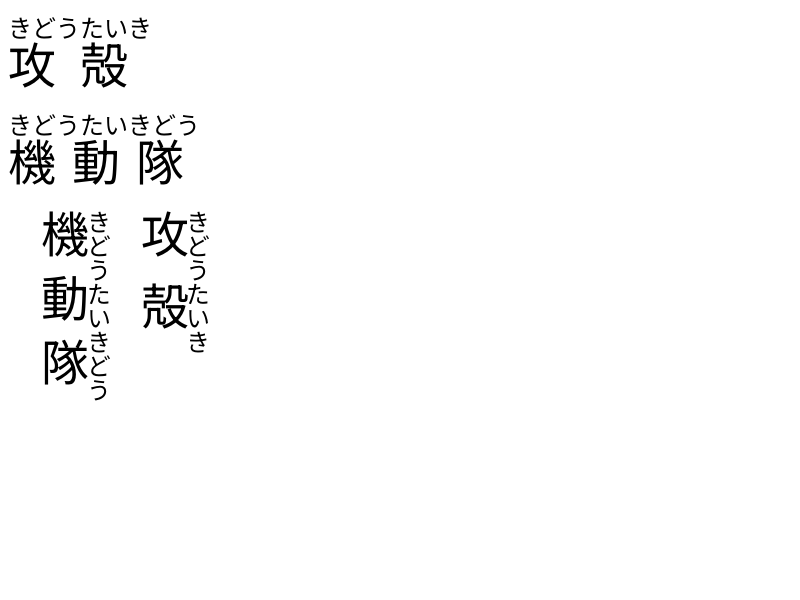
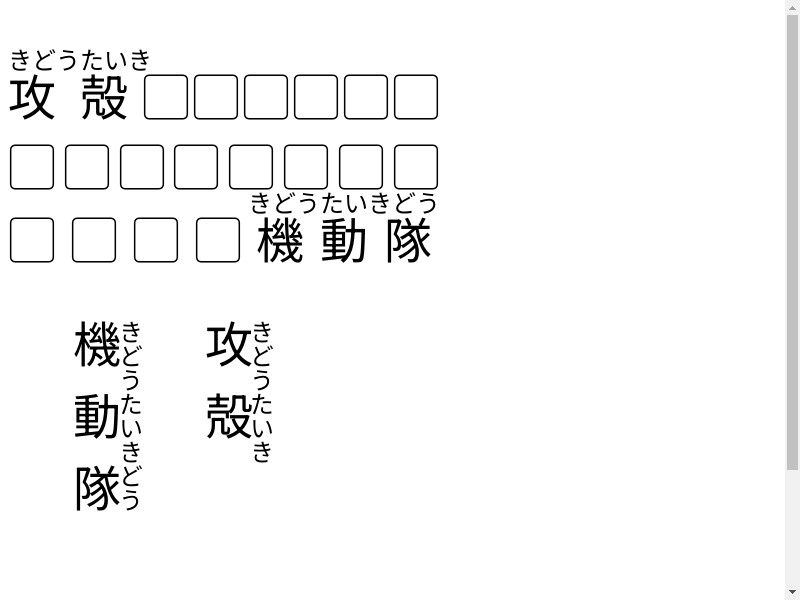
RubyLB: Improve justification for lines including base-shorter rubies
We ignored such rubies in justification, and we had no space between
such a ruby and the following character.

Assume such a ruby as an OBJECT REPLACEMENT CHARACTER.  It's compatible
with the current inline-block rubies.

Bug: 324111880
Auto-Submit: Kent Tamura <tkent@chromium.org>
Commit-Queue: Koji Ishii <kojii@chromium.org>
Cr-Commit-Position: refs/heads/main@{#1301168}
NOKEYCHECK=True
GitOrigin-RevId: 33836c24d6c005c860a8255579bc1b670f2973b8

Changed region(s): [[0.0, 0.03, 0.5625, 0.87], [0.9688, 0.0, 1.0, 0.78]]

diff --git a/blink/web_tests/fast/ruby/base-shorter-than-text.html b/blink/web_tests/fast/ruby/base-shorter-than-text.html
@@ -2,19 +2,17 @@
 <html lang="ja">
 <meta charset="utf-8">
 <style>
-    ruby { font-size: 48px; font-family: HiraMinProN-W3;}
+ruby { font-family: HiraMinProN-W3;}
+p {
+  font-size: 48px;
+  inline-size: 8.99em;
+  word-break: break-all;
+  text-align: justify;
+  text-align-last: justify;
+}
 </style>
 <p>
-    <ruby>
-        攻殻
-        <rt>きどうたいき</rt>
-    </ruby>
-</p>
-<p>
-    <ruby>
-        機動隊
-        <rt>きどうたいきどう</rt>
-    </ruby>
+<ruby>攻殻<rt>きどうたいき</rt></ruby>▢▢▢▢▢▢▢▢▢▢▢▢▢▢▢▢▢▢<ruby>機動隊<rt>きどうたいきどう</rt></ruby>
 </p>
 <div style="-webkit-writing-mode: vertical-rl; height: 50%;">
 <p>
@@ -23,11 +21,6 @@
         <rt>きどうたいき</rt>
     </ruby>
 </p>
-<p>
-    <ruby>
-        機動隊
-        <rt>きどうたいきどう</rt>
-    </ruby>
-</p>
+<p><ruby>機動隊<rt>きどうたいきどう</rt></ruby></p>
 </div>
 </html>

diff --git a/blink/renderer/core/layout/inline/justification_utils.cc b/blink/renderer/core/layout/inline/justification_utils.cc
@@ -53,8 +53,8 @@ String BuildJustificationText(const String& text_content,
                                               item_result.item->Length()));
         }
         // Add the ruby-base results only if the ruby-base is wider than its
-        // ruby-text. Shorter ruby-bases don't participate in the justification
-        // for the whole line.
+        // ruby-text. Shorter ruby-bases produces OBJECT REPLACEMENT CHARACTER,
+        // and it is treated as a single Latin character.
         if (item_result.inline_size ==
             item_result.ruby_column->base_line.Width()) {
           const LineInfo& base_line = item_result.ruby_column->base_line;
@@ -65,6 +65,8 @@ String BuildJustificationText(const String& text_content,
                 base_line.EndOffsetForJustify(),
                 base_line.MayHaveTextCombineOrRubyItem()));
           }
+        } else {
+          line_text_builder.Append(kObjectReplacementCharacter);
         }
         continue;
       }
@@ -163,6 +165,20 @@ void JustifyResults(const String& text_content,
                            base_line.ComputeWidth());
         item_result.inline_size =
             std::max(item_result.inline_size, base_line.Width());
+      } else {
+        [[maybe_unused]] float spacing_before = 0;
+        unsigned offset = item_result.StartOffset() - line_text_start_offset;
+        if (!item_result.ruby_column->is_continuation) {
+          // Skip k*IsolateCharacter.
+          offset += item_result.item->Length();
+        }
+        [[maybe_unused]] const float spacing_after =
+            spacing.ComputeSpacing(offset, spacing_before);
+        // ShapeResultSpacing doesn't ask for adding space to OBJECT
+        // REPLACEMENT CHARACTER, and asks for adding space to the next item
+        // instead.
+        DCHECK_EQ(spacing_before, 0.0f);
+        DCHECK_EQ(spacing_after, 0.0f);
       }
       if (i + 1 < results.size()) {
         // Adjust line_text_start_offset because line_text is intermittent due
@@ -173,9 +189,10 @@ void JustifyResults(const String& text_content,
           line_text_start_offset +=
               next_start_offset - base_line.EndTextOffset();
         } else {
-          // BuildJustificationText() didn't produce any text for this ruby
-          // column.
-          line_text_start_offset += next_start_offset - base_line.StartOffset();
+          // BuildJustificationText() produced only OBJECT REPLACEMENT
+          // CHARACTER.
+          line_text_start_offset +=
+              next_start_offset - base_line.StartOffset() - 1;
         }
       }
     }
